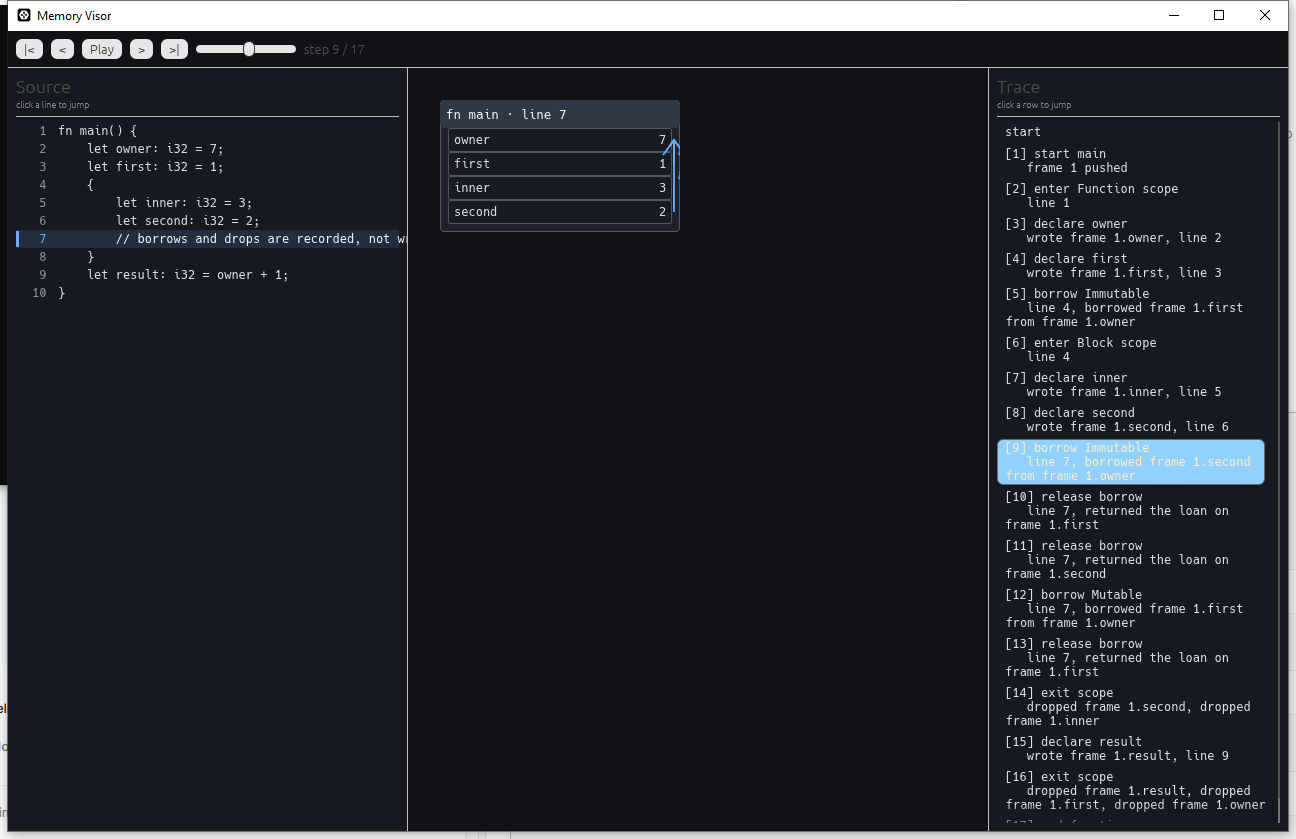
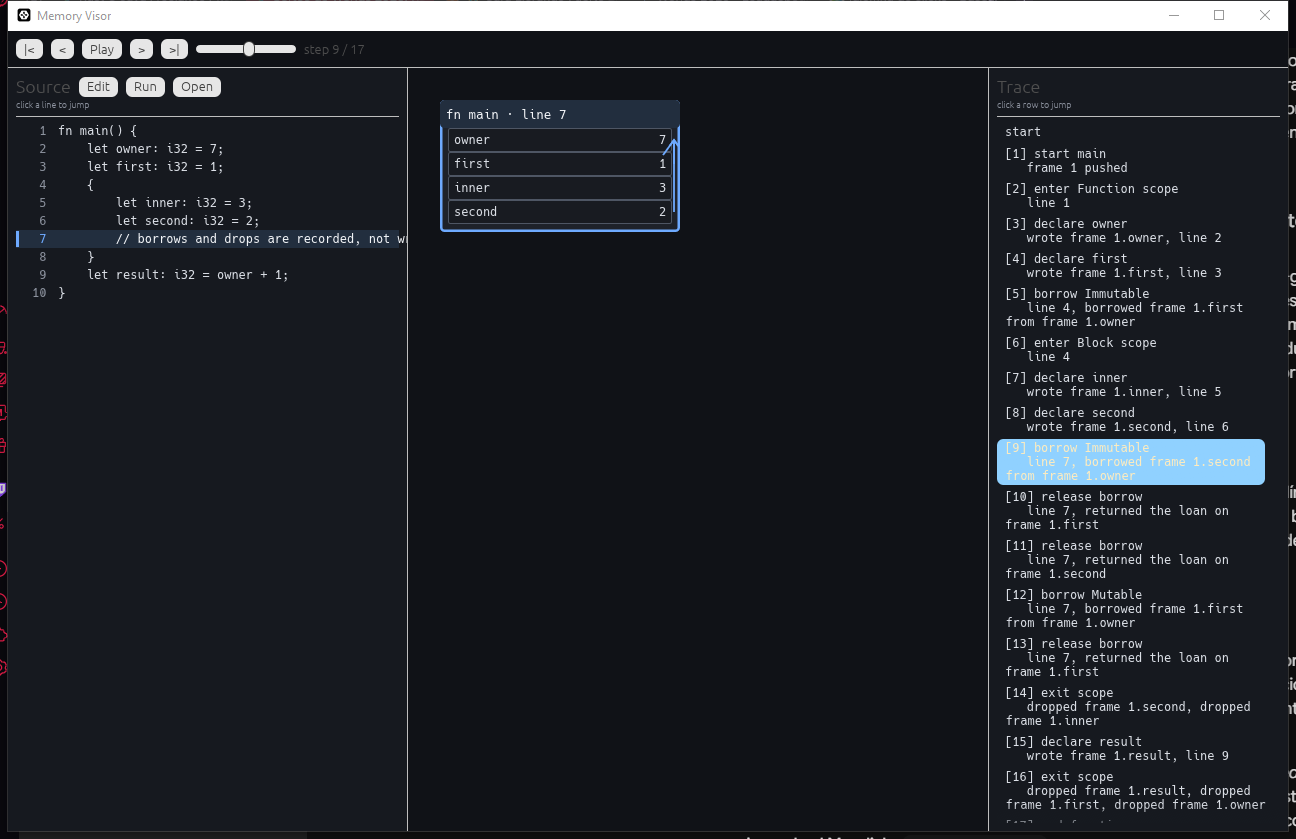
docs: record timeline limits, extension points and refresh screenshot
Document the per-step snapshot trade-off and the keyframe strategy, list the four steps towards multiple language front-ends, correct the README claim about the demo tape, and replace the stale window capture.

diff --git a/DESIGN.md b/DESIGN.md
@@ -212,6 +212,13 @@ The UI paints the incident at its `Location`:
 7. **`Move` is stack-to-stack for now**. Partial heap moves would need a shape
    rule that the recorder does not emit yet; the reducer rejects them instead of
    inventing one.
+8. **One full snapshot per step**. `build_timeline` stores a `MemoryState` after
+   every event, so scrubbing is a `Vec` index but building costs O(n × live
+   state), and `incidents` is copied inside every snapshot. That is the right
+   trade for the traces this project produces (tens or hundreds of events, and
+   the window must feel immediate); it is not the right trade for tens of
+   thousands. The escape is written down in §15 and is not implemented until a
+   trace that needs it exists.
 
 ## 10. Verification
 
@@ -387,3 +394,57 @@ overrides an incident. No window and no real time are needed.
   still derives loans from the hand-written tape);
 - highlighting the dropped path by name in the trace panel, not only on the
   canvas.
+
+## 15. Extension points and known limits
+
+The pipeline is `source → ProgramTree → TraceEvent → Timeline → MemoryState →
+MemoryLayout → canvas`. Rust is the only front-end, and the core still reads the
+Rust catalog in two places, so "language-agnostic" is a direction, not a
+finished property. The four steps to get there, in order:
+
+1. **Name in the event, not the catalog.** `StartFunction` carries a
+   `FunctionId`, which `apply` and `render` resolve through `ProgramTree`.
+   Storing the function name in the event as well lets the renderer paint a
+   trace without any catalog; the catalog then becomes an optional validator.
+2. **`ProgramModel` trait.** Every front-end supplies functions, parameters,
+   declared types and struct shapes. `ProgramTree` becomes `RustProgram:
+   ProgramModel`, and `apply` stops naming a Rust AST. The boundary is: events
+   describe *what happened*, the model describes *what was declared*.
+3. **Versioned JSON trace.** `visor --trace file.json` plus a schema in
+   `docs/trace-format.md`. A short Python or JavaScript script should be able to
+   emit a valid trace without writing Rust or reading `apply.rs`. This is the
+   cheapest contribution path and the one that turns the project into a
+   protocol instead of an application.
+4. **Written event contract.** Ordering rules (`StartFunction` →
+   `EnterScope(Function)` → statements → `ExitScope` → `EndFunction`),
+   invariants (sequence numbers, frame ids, one scope stack) and the meaning of
+   each variant. Today they live implicitly in the recorder, so every
+   contributor rediscovers them by reading the code.
+
+### Timeline snapshots
+
+`Timeline::states` holds one full clone per event. Scrubbing is O(1) because the
+work happens up front: O(n × live state) time and memory. Strings dominate each
+clone (variable names, object labels, path segments) and `incidents` is copied
+with every snapshot, which makes a trace full of rejections quadratic.
+
+The first symptom is not an OOM: `apply_source` rebuilds the timeline on every
+keystroke, so a long trace shows up as typing latency before it shows up as
+memory.
+
+Two escapes, both compatible with `state_at(step)`:
+
+- **Keyframes every N events** (N ≈ 100–200): keep every Nth state and replay at
+  most N−1 events on demand. Memory O(n/N × state), lookup O(N), still
+  imperceptible.
+- **Persistent structures** (`im::Vector`, `Arc<str>`): snapshots share the
+  unchanged parts, so a step pays only for what it mutated. More invasive,
+  because `apply` mutates through ownership today.
+
+The cheap intermediate is `Arc<str>` for names and labels: ids are already
+`Copy`, and strings dominate the clone.
+
+None of this is implemented on purpose. A few hundred events do not need it, and
+the O(1) scrub is part of why the window feels immediate. The limit is written
+here so the next contributor can choose with the numbers in view instead of
+discovering them with a broken demo.

diff --git a/README.md b/README.md
@@ -11,10 +11,10 @@ inside, and the branch a conditional jump took.
 ![Memory Visor showing a running frame, its open scope and the data cells](docs/screenshot.png)
 
 Run the desktop window with `cargo run --bin visor`; `cargo run` starts the
-terminal walkthrough. The window opens on a recorded sample, and the **Source**
-panel switches to a live editor with **Edit**: every keystroke is analysed and
-recorded, a failing construct is reported on its line, and **Open** loads a
-`.rs` file from disk.
+terminal walkthrough. The window opens on a hand-authored demo tape that covers
+borrows and drops, then the **Source** panel switches to a live editor with
+**Edit**: every keystroke is analysed and recorded, a failing construct is
+reported on its line, and **Open** loads a `.rs` file from disk.
 
 ## What it supports today
 
@@ -55,6 +55,23 @@ The memory model itself (in `src/stages/apply.rs`) still understands ownership,
 borrows and `Drop`; the hand-written lifecycle sample exercises those events.
 The recorder currently produces only the subset above.
 
+## Beyond this subset
+
+The canvas does not know Rust: it paints `MemoryState`s and reads `TraceEvent`s.
+The coupling sits one level up — `apply` and `render` resolve names and types
+through `ProgramTree`, the Rust declaration catalog — so a second language needs
+its own parser/recorder plus that catalog, not a rewrite of the window.
+
+`DESIGN.md` §15 lists the four steps that turn this into a contract instead of a
+coincidence: the function name inside `StartFunction`, a `ProgramModel` trait,
+a versioned JSON trace (`visor --trace`), and a written event contract. The same
+section records the other known limit: the timeline keeps one full snapshot per
+event, so scrubbing is O(1) but a trace of tens of thousands of events needs
+keyframes.
+
+None of that is implemented yet, and this README does not promise it. Today the
+recorder runs one language: the subset above.
+
 ## Architecture
 
 The project is split into three layers that only talk through data, so the
@@ -65,7 +82,9 @@ interpreter and the drawing can grow independently.
 `src/stages/analyze.rs` scans the source into a `ProgramTree`: functions,
 parameters, local declarations, return types and call sites. It is deliberately
 shallow (one statement per line) and never guesses: a malformed header or an
-unknown type fails with a line number.
+unknown type fails with a line number. `ProgramTree` is also the only
+Rust-shaped type the trace engine still reads; §15 explains how to remove that
+dependency.
 
 ### 2. Trace layer
 
@@ -111,10 +130,11 @@ cargo run               # terminal walkthrough
 cargo run --bin visor   # desktop window
 ```
 
-The window starts on `LIFECYCLE_SOURCE` from `src/edge/sample.rs`; the recorded
-events come from `src/edge/recorder.rs`. The CLI still uses the hand-written
-`SAMPLE_SOURCE` trace that exercises the borrow and ownership events, so both
-paths of the trace engine stay covered.
+The window starts on `LIFECYCLE_SOURCE` and runs the hand-authored
+`lifecycle_trace()` from `src/edge/sample.rs`, which exercises borrows and
+`Drop` events the recorder does not emit yet; editing the source switches to
+`record()` and the live subset. The CLI uses `SAMPLE_SOURCE`, a hand-written
+trace with structs and arrays, so both paths of the trace engine stay covered.
 
 ## Contributing
 
@@ -141,6 +161,13 @@ paths of the trace engine stay covered.
    `src/stages/execution.rs` and resolve it in `ExecutionStep`.
 4. Add a layout test for the geometry and, when possible, a pure test for the
    colour precedence in `render.rs`.
+
+### Adding another language
+
+Start with `DESIGN.md` §15. The target contract is a `TraceEvent` stream plus a
+`ProgramModel` catalog; until that trait exists, `apply` and `render` still need
+`ProgramTree`. Keep language-specific parsing in its own front-end and do not
+add language branches to the renderer.
 
 ### Before opening a pull request
 
